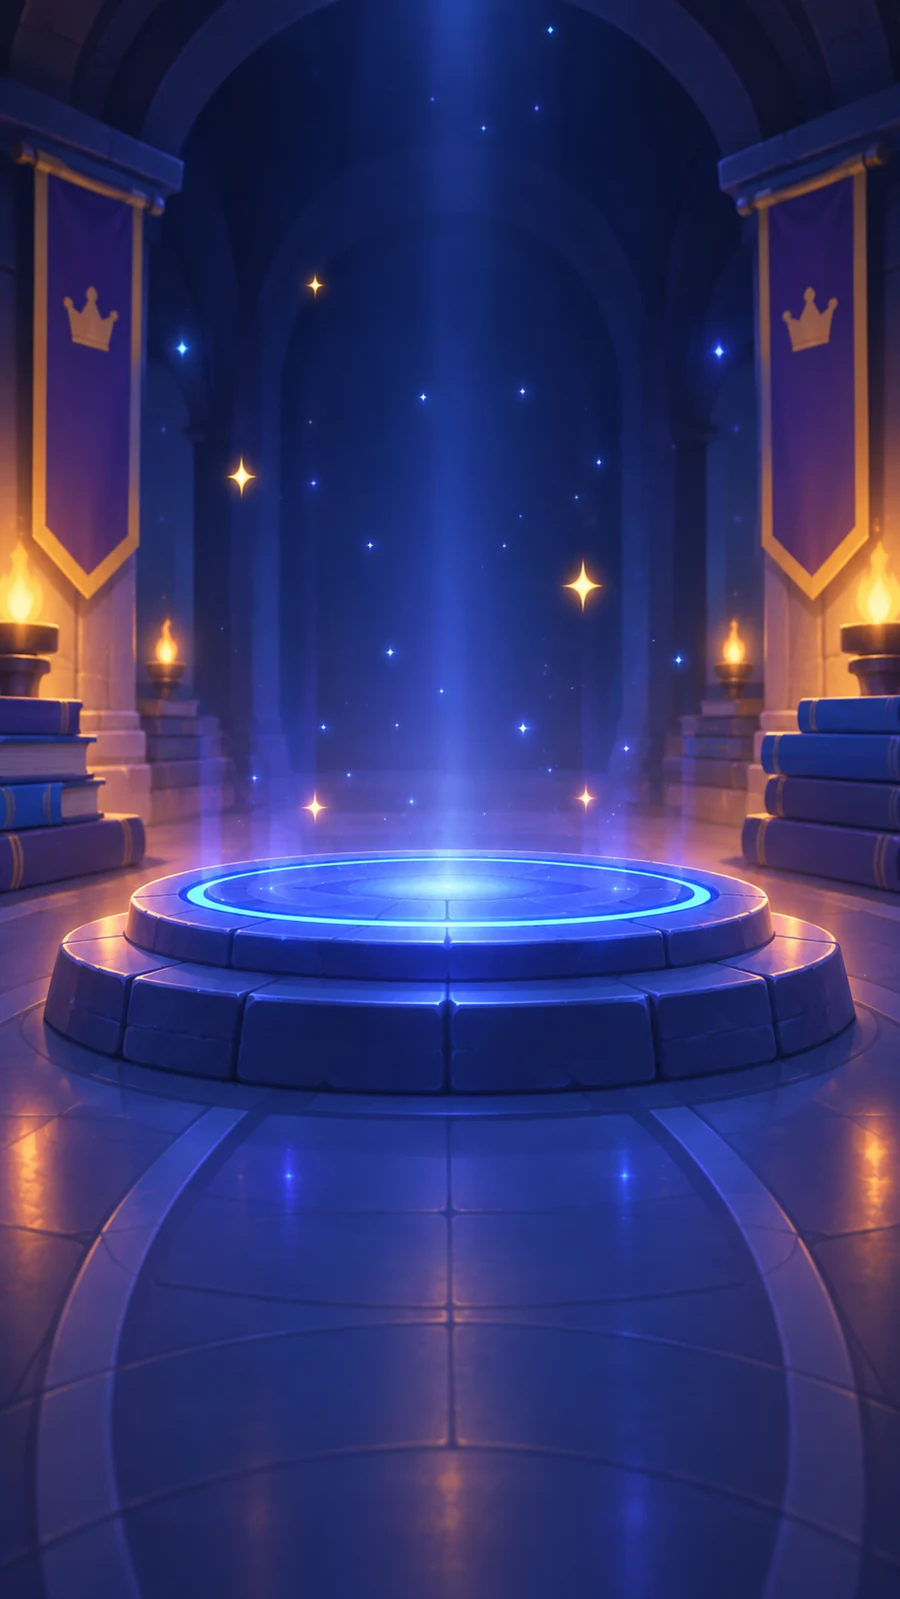
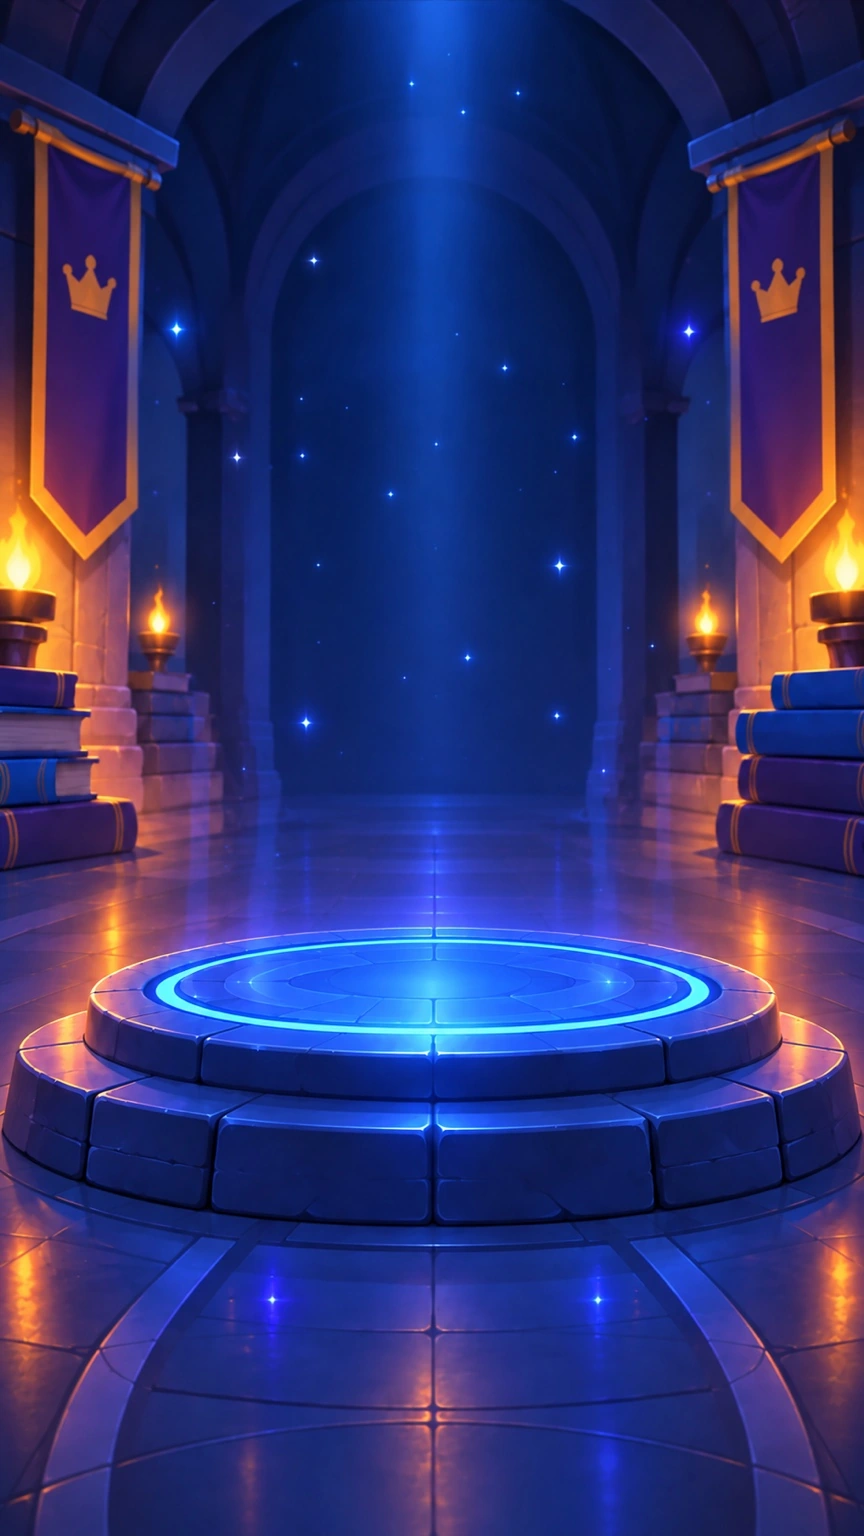
Add files via upload

diff --git a/reward-chests.css b/reward-chests.css
@@ -16,12 +16,6 @@ html.ptb-reward-lock,body.ptb-reward-lock{overflow:hidden!important;overscroll-b
   content:"";position:absolute;inset:0;z-index:0;pointer-events:none;
   background:radial-gradient(circle at 50% 47%,rgba(81,179,255,.08),transparent 32%),linear-gradient(180deg,rgba(2,9,34,.02),rgba(0,4,25,.16));
 }
-.ptb-reward-back{
-  position:absolute;z-index:8;left:max(14px,env(safe-area-inset-left));top:max(14px,env(safe-area-inset-top));
-  width:44px;height:44px;padding:0;border:0;background:transparent;display:grid;place-items:center;cursor:pointer;
-  -webkit-tap-highlight-color:transparent
-}
-.ptb-reward-back img{width:27px;height:27px;object-fit:contain;display:block;filter:none}
 .ptb-reward-object{
   position:absolute;z-index:4;left:50%;top:calc(43% - 15px);transform:translate(-50%,-50%);
   width:min(51.2vw,240px);aspect-ratio:1;border:0;padding:0;background:transparent;cursor:pointer;
@@ -62,7 +56,7 @@ html.ptb-reward-lock,body.ptb-reward-lock{overflow:hidden!important;overscroll-b
 .ptb-reward-open.is-opening .ptb-reward-flash{animation:ptbRewardOpenFlash .68s ease-out both}
 .ptb-reward-open.is-opening .ptb-reward-rays{animation:ptbRewardRays .86s ease-out both}
 .ptb-reward-result{
-  position:absolute;z-index:7;left:50%;top:43%;transform:translate(-50%,-50%) scale(.72);opacity:0;pointer-events:none;
+  position:absolute;z-index:7;left:50%;top:calc(43% - 30px);transform:translate(-50%,-50%) scale(.72);opacity:0;pointer-events:none;
   width:min(72vw,330px);display:grid;place-items:center
 }
 .ptb-reward-open.is-revealed .ptb-reward-result{animation:ptbRewardReveal .58s cubic-bezier(.17,.86,.24,1.2) forwards;pointer-events:auto}
@@ -94,7 +88,8 @@ html.ptb-reward-lock,body.ptb-reward-lock{overflow:hidden!important;overscroll-b
 @keyframes ptbRewardReveal{0%{opacity:0;transform:translate(-50%,-50%) scale(.6)}70%{opacity:1;transform:translate(-50%,-50%) scale(1.08)}100%{opacity:1;transform:translate(-50%,-50%) scale(1)}}
 @media(max-height:720px){
   .ptb-reward-object{top:calc(45% - 15px);width:min(45.6vw,216px)}
-  .ptb-reward-result,.ptb-reward-flash,.ptb-reward-rays{top:45%}
+  .ptb-reward-result{top:calc(45% - 30px)}
+  .ptb-reward-flash,.ptb-reward-rays{top:45%}
   .ptb-reward-open[data-reward-type="bag"] .ptb-reward-object{width:min(43vw,210px);top:calc(46% - 15px)}
   .ptb-reward-open[data-reward-type="legendary"] .ptb-reward-object{width:min(50.4vw,240px);top:calc(45% - 15px)}
 }
@@ -172,7 +167,7 @@ html.ptb-reward-lock,body.ptb-reward-lock{overflow:hidden!important;overscroll-b
 .ptb-reward-open[data-star-phase="settled"] .ptb-star-fx-particles{opacity:.08;transition:opacity .4s ease}
 
 .ptb-reward-open[data-reward-type="star"] .ptb-reward-result{
-  top:31.5%;z-index:10;width:min(46vw,210px)
+  top:calc(31.5% - 30px);z-index:10;width:min(46vw,210px)
 }
 .ptb-reward-open[data-reward-type="star"] .ptb-reward-result-card>img{
   width:min(27vw,118px);height:min(27vw,118px)
@@ -224,7 +219,7 @@ html.ptb-reward-lock,body.ptb-reward-lock{overflow:hidden!important;overscroll-b
 }
 
 @media(max-height:720px){
-  .ptb-reward-open[data-reward-type="star"] .ptb-reward-result{top:32.5%}
+  .ptb-reward-open[data-reward-type="star"] .ptb-reward-result{top:calc(32.5% - 30px)}
 }
 @media(prefers-reduced-motion:reduce){
   .ptb-star-simple,.ptb-star-fx{animation:none!important}
@@ -275,7 +270,7 @@ html.ptb-reward-lock,body.ptb-reward-lock{overflow:hidden!important;overscroll-b
          drop-shadow(0 0 17px rgba(255,205,73,.3))
 }
 .ptb-reward-open[data-reward-type="legendary"] .ptb-reward-result{
-  top:31.5%;z-index:10;width:min(46vw,210px)
+  top:calc(31.5% - 30px);z-index:10;width:min(46vw,210px)
 }
 .ptb-reward-open[data-reward-type="legendary"] .ptb-reward-result-card>img{
   width:min(27vw,118px);height:min(27vw,118px)
@@ -294,8 +289,27 @@ html.ptb-reward-lock,body.ptb-reward-lock{overflow:hidden!important;overscroll-b
 }
 
 @media(max-height:720px){
-  .ptb-reward-open[data-reward-type="legendary"] .ptb-reward-result{top:32.5%}
+  .ptb-reward-open[data-reward-type="legendary"] .ptb-reward-result{top:calc(32.5% - 30px)}
 }
 @media(prefers-reduced-motion:reduce){
   .ptb-legendary-simple{animation:none!important}
+}
+
+
+/* V12 — récompenses sans cadre */
+.ptb-reward-item-frame,
+.ptb-reward-result-card.rarity-rare .ptb-reward-item-frame,
+.ptb-reward-result-card.rarity-epique .ptb-reward-item-frame,
+.ptb-reward-result-card.rarity-ultra .ptb-reward-item-frame{
+  background:transparent!important;
+  border:0!important;
+  border-radius:0!important;
+  box-shadow:none!important;
+  padding:0!important;
+}
+.ptb-reward-item-frame img{
+  filter:drop-shadow(0 14px 18px rgba(0,0,0,.24));
+}
+.ptb-reward-open.is-revealed{
+  cursor:pointer;
 }

diff --git a/reward-chests-client.js b/reward-chests-client.js
@@ -125,9 +125,6 @@
     overlay.setAttribute("aria-hidden", "true");
     overlay.innerHTML = `
       <div class="ptb-reward-scene">
-        <button class="ptb-reward-back" type="button" aria-label="Fermer">
-          <img src="/back-arrow.png" alt="">
-        </button>
         <div class="ptb-reward-flash" aria-hidden="true"></div>
         <div class="ptb-reward-rays" aria-hidden="true"></div>
         <button class="ptb-reward-object" type="button" aria-label="Ouvrir la récompense">
@@ -153,9 +150,11 @@
         <div class="ptb-reward-result" aria-live="polite"></div>
       </div>`;
 
-    overlay.querySelector(".ptb-reward-back")?.addEventListener("click", close);
     overlay.querySelector(".ptb-reward-object")?.addEventListener("click", handleTap);
-    overlay.querySelector(".ptb-reward-result")?.addEventListener("click", () => restart(activeType));
+    overlay.addEventListener("click", () => {
+      if (!overlay?.classList.contains("is-revealed")) return;
+      returnToPreviousPage();
+    });
     document.body.appendChild(overlay);
     return overlay;
   }
@@ -250,6 +249,26 @@
     busy = false;
     if (location.hash.startsWith("#rewards-preview")) {
       history.replaceState(null, "", `${location.pathname}${location.search}`);
+    }
+  }
+
+  function returnToPreviousPage() {
+    if (!overlay?.classList.contains("is-revealed")) return;
+
+    clearTimeout(resetTimer);
+    clearAnimationTimers();
+    overlay.classList.remove("is-open");
+    overlay.setAttribute("aria-hidden", "true");
+    document.documentElement.classList.remove("ptb-reward-lock");
+    document.body.classList.remove("ptb-reward-lock");
+    busy = false;
+
+    if (location.hash.startsWith("#rewards-preview")) {
+      if (history.length > 1) {
+        history.back();
+      } else {
+        history.replaceState(null, "", `${location.pathname}${location.search}`);
+      }
     }
   }
 

diff --git a/index.html b/index.html
@@ -46,7 +46,7 @@
   <link rel="preload" as="image" href="/lobby-exit.png" />
   <link rel="stylesheet" href="/category-prototype.css?v=1.48.0" />
   <link rel="stylesheet" href="/private-lobby.css?v=1.48.0">
-  <link rel="stylesheet" href="/reward-chests.css?v=1.48.0-rewards11" />
+  <link rel="stylesheet" href="/reward-chests.css?v=1.48.0-rewards12" />
 </head>
 
 <body>
@@ -61,7 +61,7 @@
   <script defer src="/avatar-system-v1.js?v=1.48.0"></script>
   <script defer src="/inventory-client.js?v=1.48.0"></script>
   <script defer src="/progression-client.js?v=1.48.0-levels-maquette6"></script>
-  <script defer src="/reward-chests-client.js?v=1.48.0-rewards11"></script>
+  <script defer src="/reward-chests-client.js?v=1.48.0-rewards12"></script>
   <script defer src="/icon-theme-v1.js?v=1.48.0"></script>
   <script defer src="/home-screen-v1.js?v=1.48.0-levels-maquette2"></script>
   <script defer src="/profile-module-v1.js?v=1.48.0"></script>
